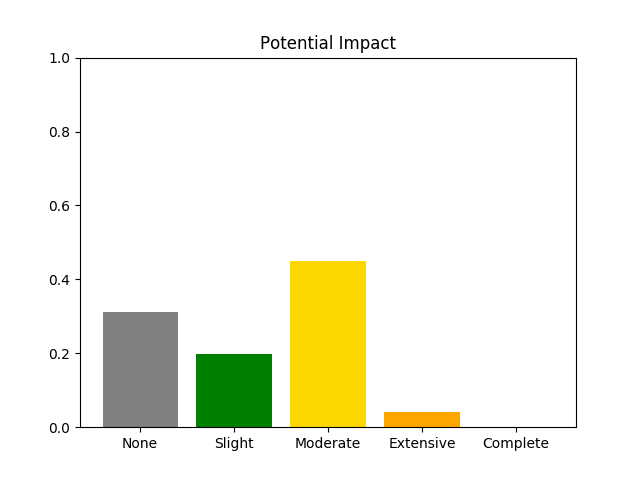
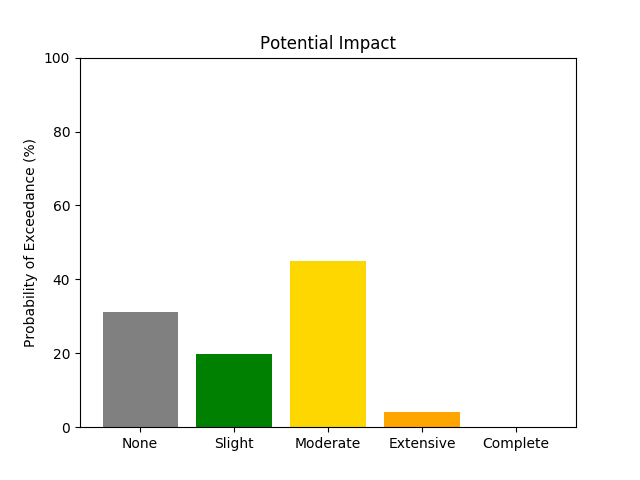
Fixed impact histogram

diff --git a/validation/shakecast.py b/validation/shakecast.py
@@ -72,7 +72,7 @@ def run():
 
     pp_fig = plt.figure()
     plt.plot([p['disp'] for p in demand],
-        [p['y'] for p in demand], '-ro', label='Median Demand')
+        [p['y'] for p in demand], '-r', label='Median Demand')
     plt.plot([p['disp'] for p in upper_demand],
         [p['y'] for p in upper_demand], label='Upper bound demand')
     plt.plot([p['disp'] for p in lower_demand],
@@ -93,13 +93,23 @@ def run():
     plt.legend()
 
     impact_fig = plt.figure()
-    plt.ylim(0, 1)
-    n, s, m, e, c = plt.bar([1,2,3,4,5], [damage_probs['none'], damage_probs['slight'], damage_probs['moderate'], damage_probs['extensive'], damage_probs['complete']])
+    plt.ylim(0, 100)
+    n, s, m, e, c = plt.bar(
+        [1, 2, 3, 4, 5], 
+        [
+            damage_probs['none'] * 100,
+            damage_probs['slight'] * 100,
+            damage_probs['moderate'] * 100,
+            damage_probs['extensive'] * 100,
+            damage_probs['complete'] * 100
+        ]
+    )
     n.set_facecolor('gray')
     s.set_facecolor('g')
     m.set_facecolor('gold')
     e.set_facecolor('orange')
     c.set_facecolor('r')
+    plt.ylabel('Probability of Exceedance (%)')
     plt.title('Potential Impact')
     plt.xticks([1,2,3,4,5], ['None', 'Slight', 'Moderate', 'Extensive', 'Complete'])
 
